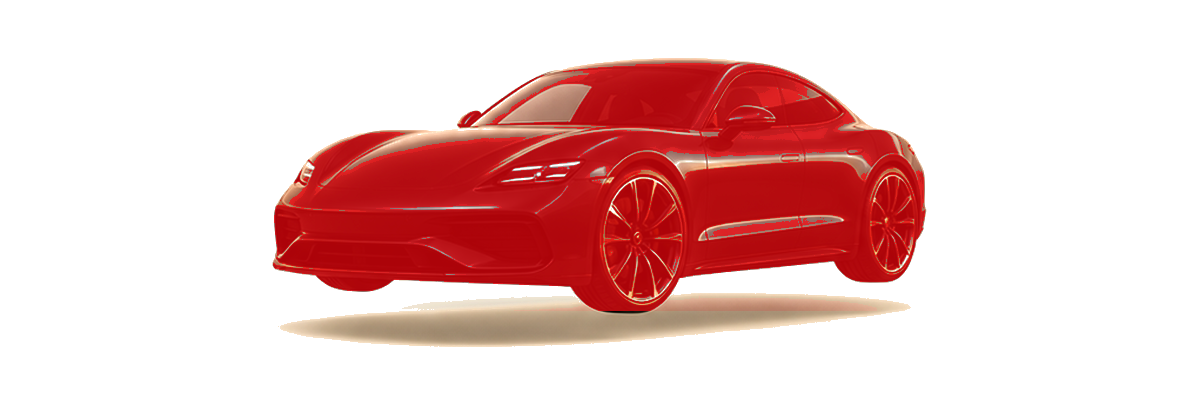
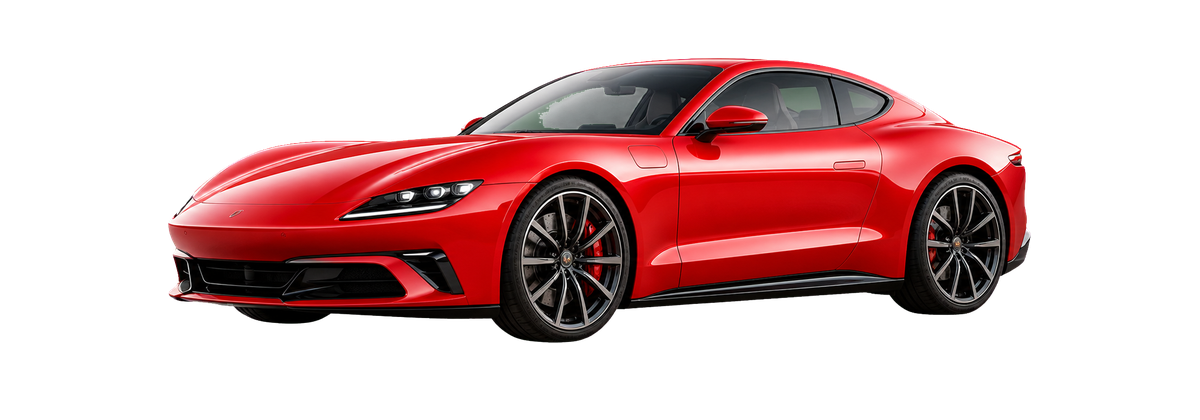
Refine mobile fleet and booking visuals

diff --git a/site/css/site-v2.css b/site/css/site-v2.css
@@ -1779,7 +1779,7 @@ select {
     width: 100%;
     height: auto;
     object-fit: contain;
-    filter: drop-shadow(0 8px 12px rgba(0, 0, 0, 0.18));
+    filter: none;
 }
 
 .lab-nav__card-media--brand {
@@ -1890,9 +1890,7 @@ select {
 .lab-nav__card--type .lab-nav__card-media--type img {
     transform: scale(1.36);
     transform-origin: center;
-    filter:
-        drop-shadow(0 12px 14px rgba(0, 0, 0, 0.32))
-        drop-shadow(0 3px 5px rgba(0, 0, 0, 0.2));
+    filter: none;
 }
 
 .lab-nav__card--type .lab-nav__card-copy {
@@ -3066,7 +3064,7 @@ select {
 
 .fleet-category__media::before,
 .fleet-category__media::after {
-    content: "";
+    content: none;
     position: absolute;
     pointer-events: none;
 }
@@ -3109,18 +3107,14 @@ select {
     object-fit: contain;
     object-position: center bottom;
     justify-self: center;
-    filter:
-        drop-shadow(0 18px 20px rgba(0, 0, 0, 0.24))
-        drop-shadow(0 5px 10px rgba(0, 0, 0, 0.18));
+    filter: none;
     transform: translateY(var(--fleet-image-shift-y, 0));
     transition: transform 260ms ease, filter 260ms ease;
 }
 
 .fleet-category:hover .fleet-category__image {
     transform: translateY(calc(var(--fleet-image-shift-y, 0) - 2px));
-    filter:
-        drop-shadow(0 20px 22px rgba(0, 0, 0, 0.28))
-        drop-shadow(0 6px 12px rgba(0, 0, 0, 0.18));
+    filter: none;
 }
 
 .fleet-category__copy {
@@ -6259,7 +6253,7 @@ a.brand-marquee__item:focus-visible img {
     }
 
     .fleet-showcase .fleet-visual-card__body {
-        gap: 0.58rem;
+        gap: 0.5rem;
         padding: 0.82rem var(--fleet-card-content-pad-x) 0.72rem;
     }
 
@@ -6271,10 +6265,21 @@ a.brand-marquee__item:focus-visible img {
         display: none;
     }
 
-    .fleet-showcase .fleet-visual-card__description,
     .fleet-showcase .fleet-visual-card__sales-line,
     .fleet-showcase .fleet-visual-card__spec-list {
         display: none;
+    }
+
+    .fleet-showcase .fleet-visual-card__description {
+        display: -webkit-box;
+        min-height: 2.55rem;
+        margin: 0.12rem 0 0;
+        overflow: hidden;
+        color: rgba(73, 62, 51, 0.82);
+        font-size: 0.84rem;
+        line-height: 1.34;
+        -webkit-box-orient: vertical;
+        -webkit-line-clamp: 2;
     }
 
     .fleet-showcase .fleet-visual-card h3 {
@@ -6288,8 +6293,8 @@ a.brand-marquee__item:focus-visible img {
     }
 
     .fleet-showcase .fleet-visual-card__price-box {
-        margin-top: 0.05rem;
-        padding: 0.7rem 0.76rem;
+        margin-top: 0;
+        padding: 0.62rem 0.76rem;
         border-radius: 0.82rem;
     }
 

diff --git a/site/app/reserve/page.html b/site/app/reserve/page.html
@@ -955,7 +955,19 @@
                         <p class="delivery-card-note">Start with the area, hotel or airport.</p>
                         <div class="form-group" style="margin-top: 0;">
                             <label for="pickupLocation" class="field-label"><i class="fa-solid fa-map-pin"></i>Delivery address *</label>
-                            <input type="text" id="pickupLocation" name="pickupLocation" placeholder="Palm Jumeirah, Marina, Downtown, hotel or airport" class="input" autocomplete="street-address" required>
+                            <input type="text" id="pickupLocation" name="pickupLocation" list="deliveryLocationOptions" placeholder="Choose a delivery zone or type exact hotel / villa" class="input" autocomplete="street-address" required>
+                            <datalist id="deliveryLocationOptions">
+                                <option value="Palm Jumeirah"></option>
+                                <option value="Dubai Marina"></option>
+                                <option value="Downtown Dubai"></option>
+                                <option value="JBR"></option>
+                                <option value="Business Bay"></option>
+                                <option value="Dubai Airport DXB"></option>
+                                <option value="Al Maktoum Airport DWC"></option>
+                                <option value="DIFC"></option>
+                                <option value="Jumeirah Beach"></option>
+                                <option value="Private hotel, villa or residence"></option>
+                            </datalist>
                             <p class="field-error" id="pickupLocation-error"></p>
                             <div class="delivery-map-wrapper">
                                 <iframe

diff --git a/site/css/site-v2-about.css b/site/css/site-v2-about.css
@@ -112,8 +112,8 @@
     position: absolute;
     inset: 0;
     background:
-        linear-gradient(180deg, rgba(5, 6, 8, 0.04), rgba(5, 6, 8, 0.34)),
-        radial-gradient(circle at 20% 10%, rgba(241, 226, 189, 0.18), rgba(241, 226, 189, 0) 17rem);
+        linear-gradient(180deg, rgba(5, 6, 8, 0), rgba(5, 6, 8, 0.18)),
+        radial-gradient(circle at 20% 10%, rgba(241, 226, 189, 0.08), rgba(241, 226, 189, 0) 17rem);
     pointer-events: none;
 }
 
@@ -124,7 +124,11 @@
     height: 100%;
     min-height: clamp(14rem, 22vw, 22rem);
     object-fit: cover;
-    filter: saturate(0.9) contrast(1.05) brightness(0.72);
+    filter: saturate(1.12) contrast(1.04) brightness(1.02);
+}
+
+.about-media img {
+    filter: saturate(1.12) contrast(1.04) brightness(1.04);
 }
 
 .about-visual-card__caption {

diff --git a/site/css/site-v2-services.css b/site/css/site-v2-services.css
@@ -30,8 +30,8 @@
     height: 100%;
     object-fit: cover;
     object-position: center 42%;
-    opacity: 0.58;
-    filter: saturate(0.66) brightness(0.5) contrast(1.04);
+    opacity: 0.86;
+    filter: saturate(1.12) brightness(0.88) contrast(1.04);
 }
 
 .services-hero__shade {
@@ -1192,7 +1192,7 @@
     height: 100%;
     object-fit: cover;
     object-position: center 40%;
-    filter: saturate(0.82) brightness(0.54);
+    filter: saturate(1.12) brightness(0.9) contrast(1.04);
 }
 
 .services-private__shade {
@@ -1901,8 +1901,8 @@
 }
 
 .services-page .services-hero__media img {
-    opacity: 0.68;
-    filter: saturate(0.58) brightness(0.5) contrast(1.08);
+    opacity: 0.86;
+    filter: saturate(1.12) brightness(0.86) contrast(1.06);
 }
 
 .services-page .services-hero__shade {

diff --git a/site/js/site-v2.js b/site/js/site-v2.js
@@ -1819,7 +1819,9 @@ function initSiteV2() {
             ".vehicle-pdp-gallery-top__stage img",
             ".vehicle-pdp-gallery-top__thumb--media img",
             ".vehicle-pdp-gallery-panel__item img",
-            ".vehicle-pdp-gallery-card__media img"
+            ".vehicle-pdp-gallery-card__media img",
+            ".vehicle-landing-reserve__stage img",
+            ".vehicle-landing-reserve__thumbs img"
         ].join(",")));
 
         if (galleryImages.length < 2) {
@@ -1857,7 +1859,7 @@ function initSiteV2() {
                 alt: normalizeBookingValue(image.getAttribute("alt")) || "Vehicle media",
                 caption: getCaptionForImage(image)
             };
-            const trigger = image.closest(".vehicle-pdp-gallery-top__stage, .vehicle-pdp-gallery-top__thumb--media, .vehicle-pdp-gallery-panel__item, .vehicle-pdp-gallery-card__media");
+            const trigger = image.closest(".vehicle-pdp-gallery-top__stage, .vehicle-pdp-gallery-top__thumb--media, .vehicle-pdp-gallery-panel__item, .vehicle-pdp-gallery-card__media, .vehicle-landing-reserve__stage, .vehicle-landing-reserve__thumbs figure");
 
             seenSources.add(absoluteSource);
             items.push(item);